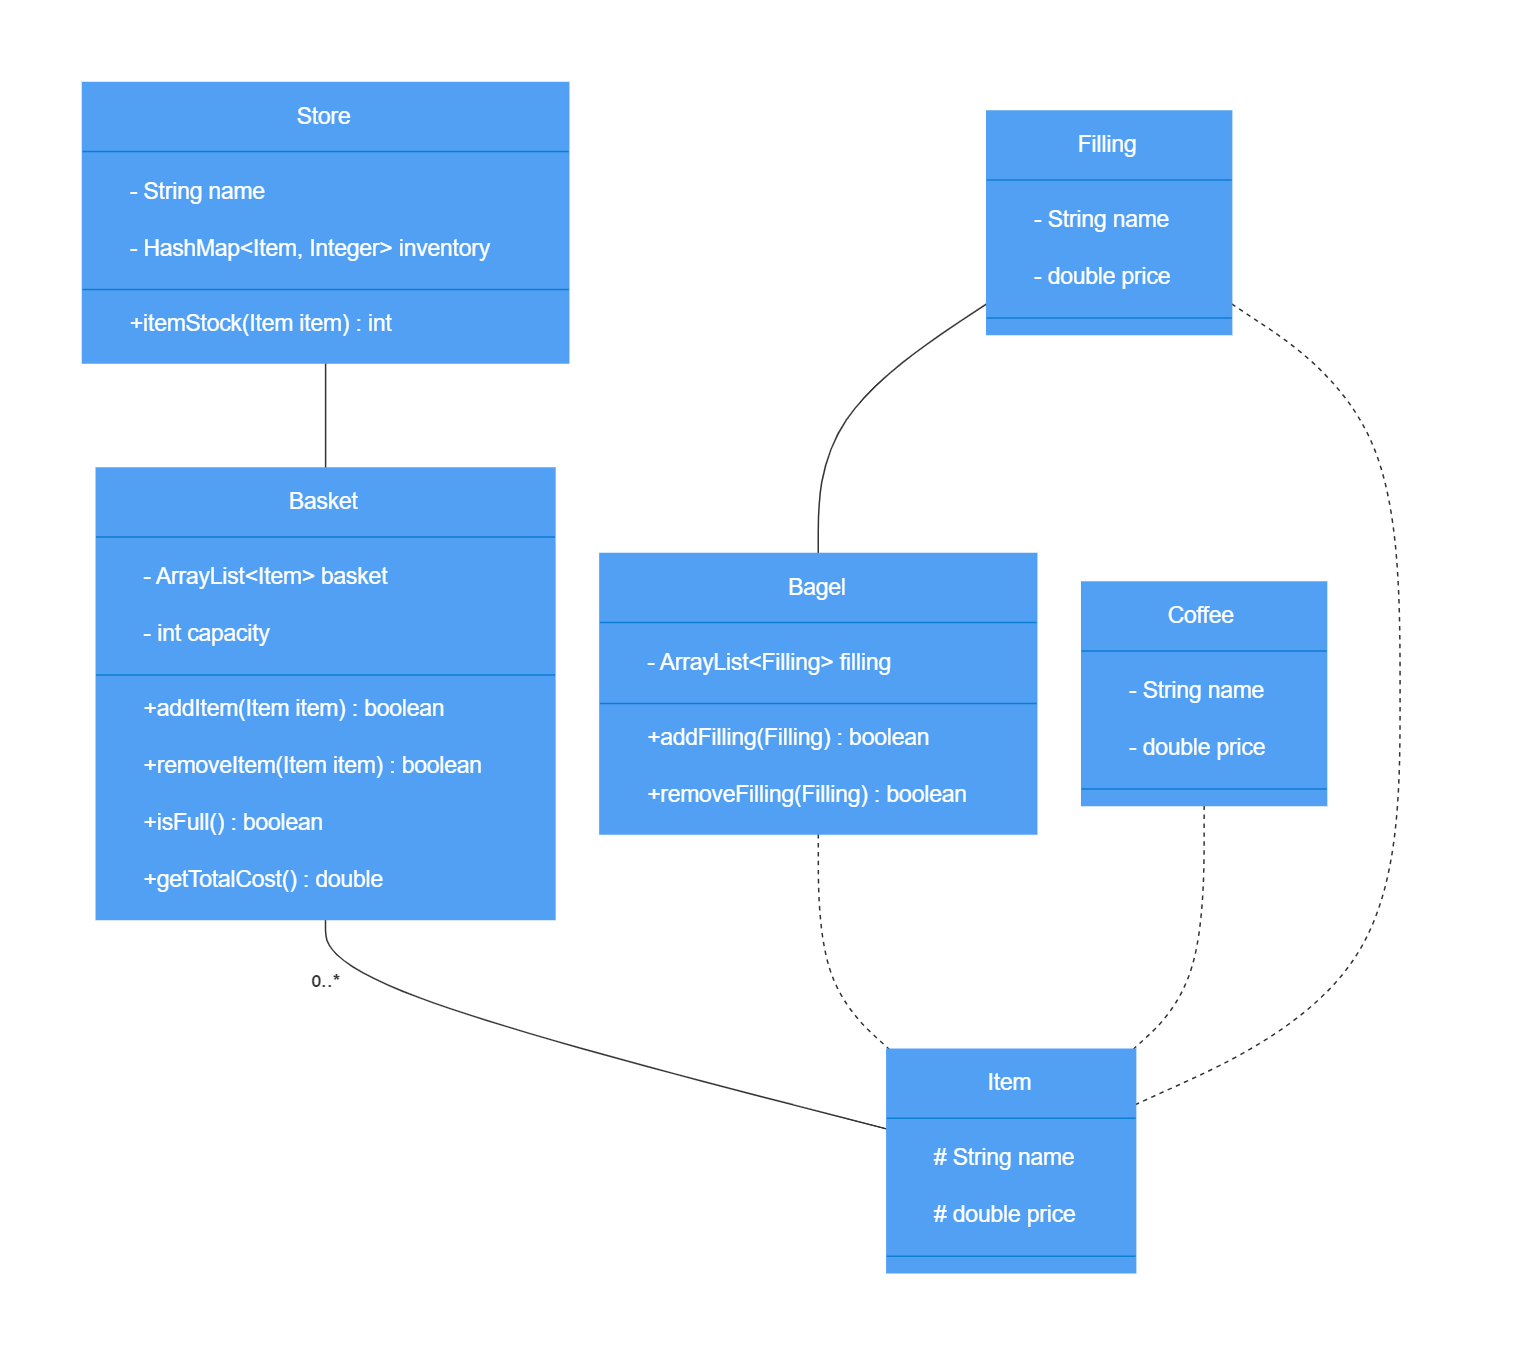
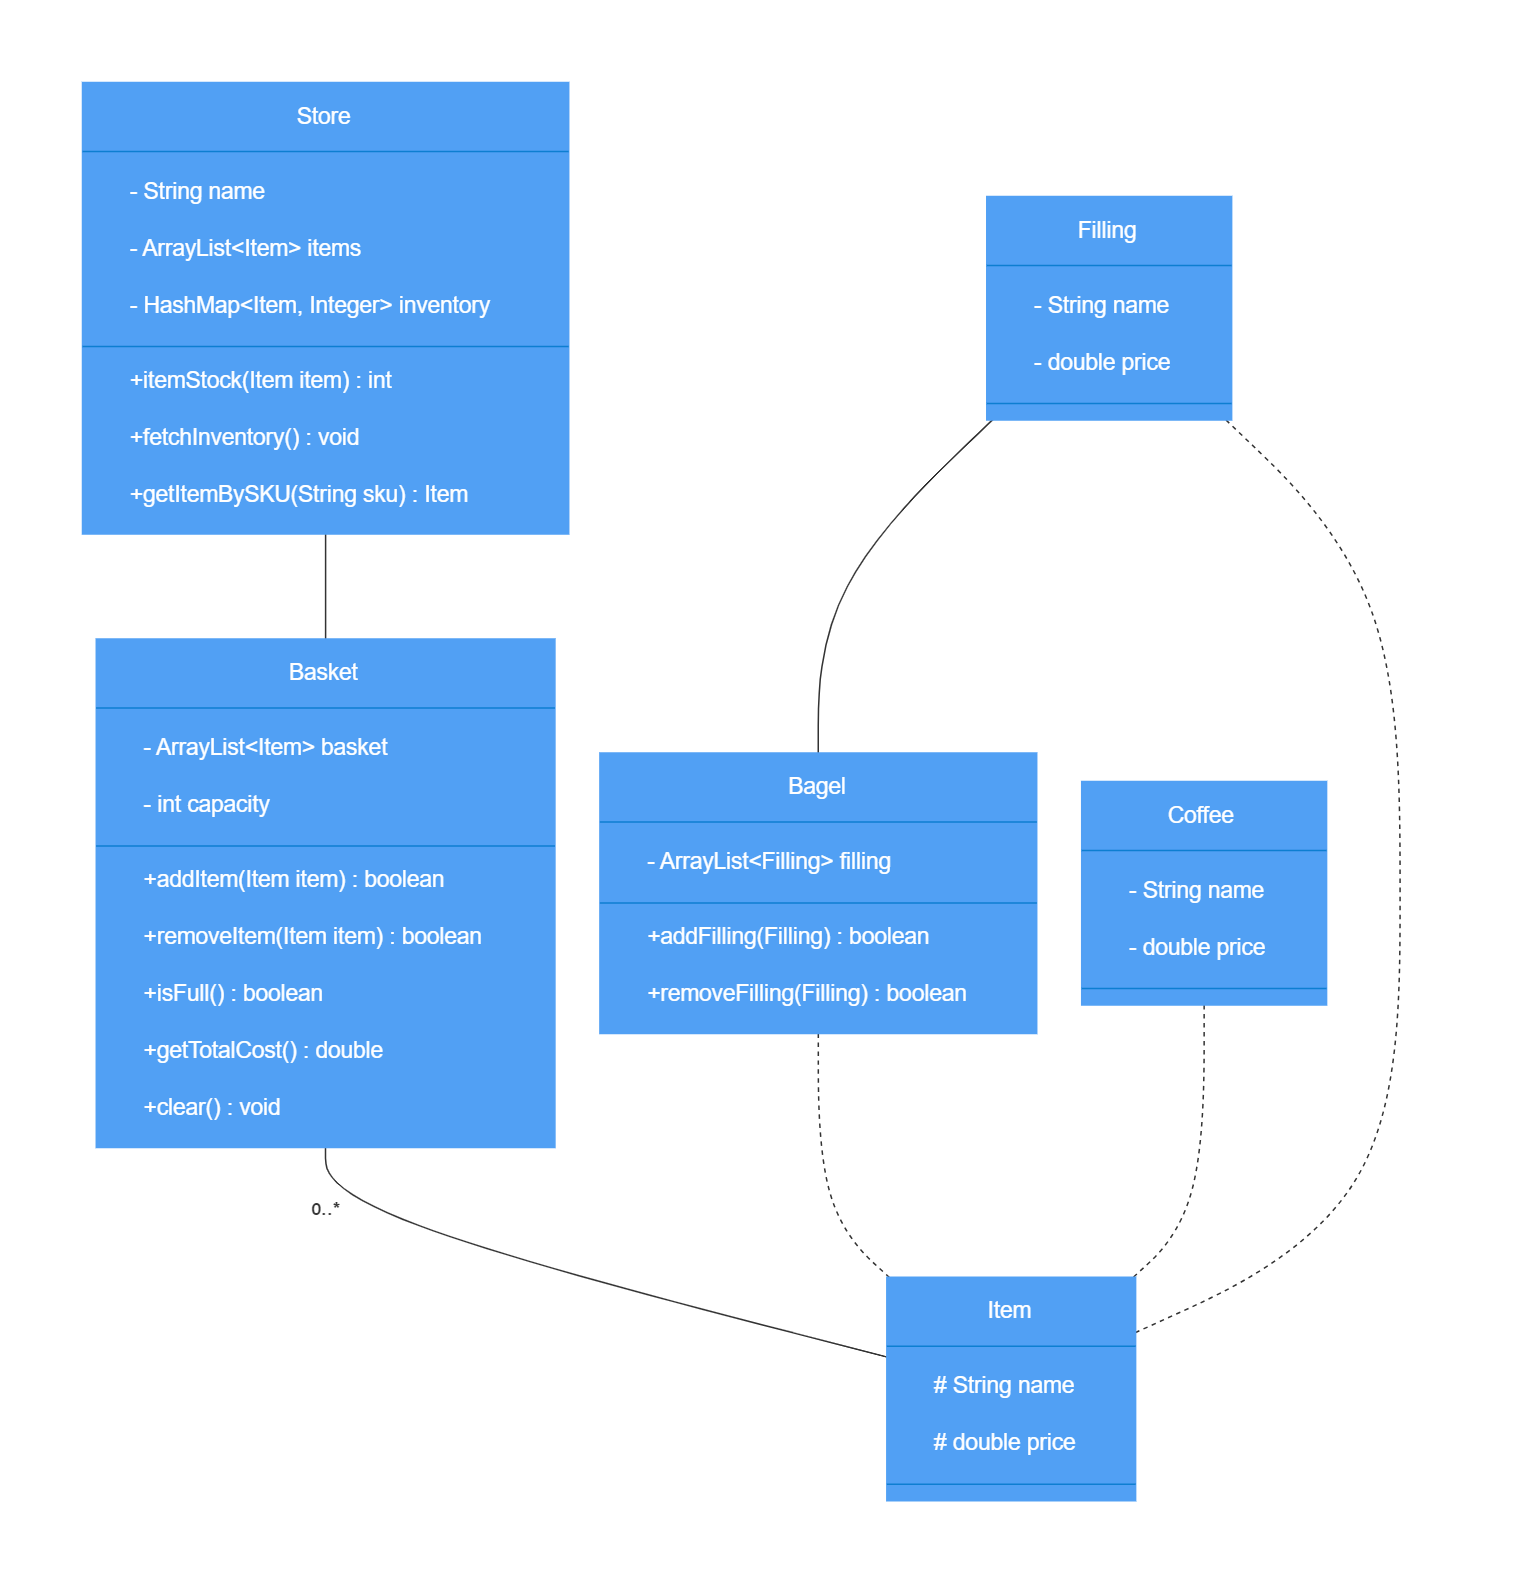
Update models and diagrams

diff --git a/domain-model-core.md b/domain-model-core.md
@@ -2,19 +2,21 @@
 
 Accessor methods are not included in the domain model (eg. setCapacity(int), getBasket(), etc)
 
-| Class                    | Method                  | Return value | Class variable                           | Description                                         |
-|--------------------------|-------------------------|--------------|------------------------------------------|-----------------------------------------------------|
-| Store                    | itemStock(Item)         | int          | HashMap\<Item, Integer>                  | Checks if item is in stock                          |
-| Basket                   | addItem(Bagel)          | boolean      | ArrayList\<Item> basket                  | Adds a specific type of Bagel to the Basket         |
-|                          | removeItem(Bagel)       | boolean      | ArrayList\<Item> basket                  | Removes a specific type of Bagel from the Basket    |
-|                          | isFull()                | boolean      | ArrayList\<Item> basket<br/>int capacity | Checks if Basket is full based on capacity variable |
-|                          | getTotalCost()          | double       | ArrayList\<Item> basket                  | Returns the total cost of all items in basket       |
-| Item                     | *Only accessor methods* |              | String name<br/>double price             |                                                     |
-| Bagel *(extends Item)*   | addFilling(Filling)     | boolean      | ArrayList\<Filling> filling              | Adds a Filling to a specific Bagel                  |
-|                          | removeFilling(Filling)  | boolean      | ArrayList\<Filling> filling              | Removes a Filling from a specific Bagel             |
-| Filling *(extends Item)* | *Only accessor methods* |              | String name<br/>double price             |                                                     |
-| Coffee *(extends Item)*  | *Only accessor methods* |              | String name<br/>double price             |                                                     |
-
+| Class                    | Method                  | Return value | Class variable           | Description                                         |
+|--------------------------|-------------------------|--------------|--------------------------|-----------------------------------------------------|
+| Store                    | itemStock(Item)         | int          | HashMap\<Item, Integer>  | Checks if item is in stock                          |
+|                          | fetchItems()            | void         |                          |                                                     |
+|                          | getItemBySKU()          | Item         | ArrayList<Item>          |                                                     |
+| Basket                   | addItem(Item)           | boolean      | ArrayList\<Item>         | Adds a specific type of Item to the Basket          |
+|                          | removeItem(Item)        | boolean      | ArrayList\<Item>         | Removes a specific type of Item from the Basket     |
+|                          | isFull()                | boolean      | ArrayList\<Item><br/>int | Checks if Basket is full based on capacity variable |
+|                          | getTotalCost()          | double       | ArrayList\<Item>         | Returns the total cost of all items in basket       |
+|                          | clear()                 | void         | ArrayList\<Item>         |                                                     |
+| Item                     | *Only accessor methods* |              | String<br/>double        |                                                     |
+| Bagel *(extends Item)*   | addFilling(Filling)     | boolean      | ArrayList\<Filling>      | Adds a Filling to a specific Bagel                  |
+|                          | removeFilling(Filling)  | boolean      | ArrayList\<Filling>      | Removes a Filling from a specific Bagel             |
+| Coffee *(extends Item)*  |                         |              |                          |                                                     |
+| Filling *(extends Item)* |                         |              |                          |                                                     |
 
 # User Stories
 
